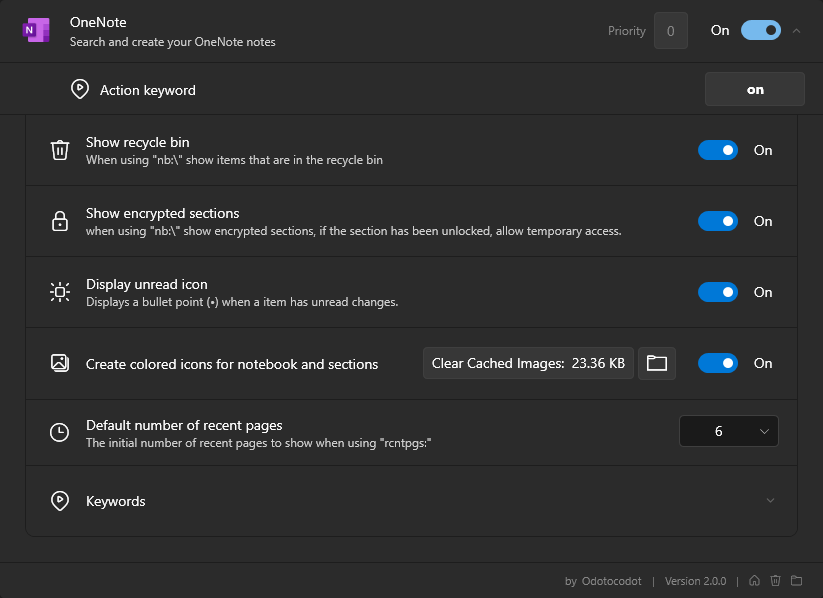
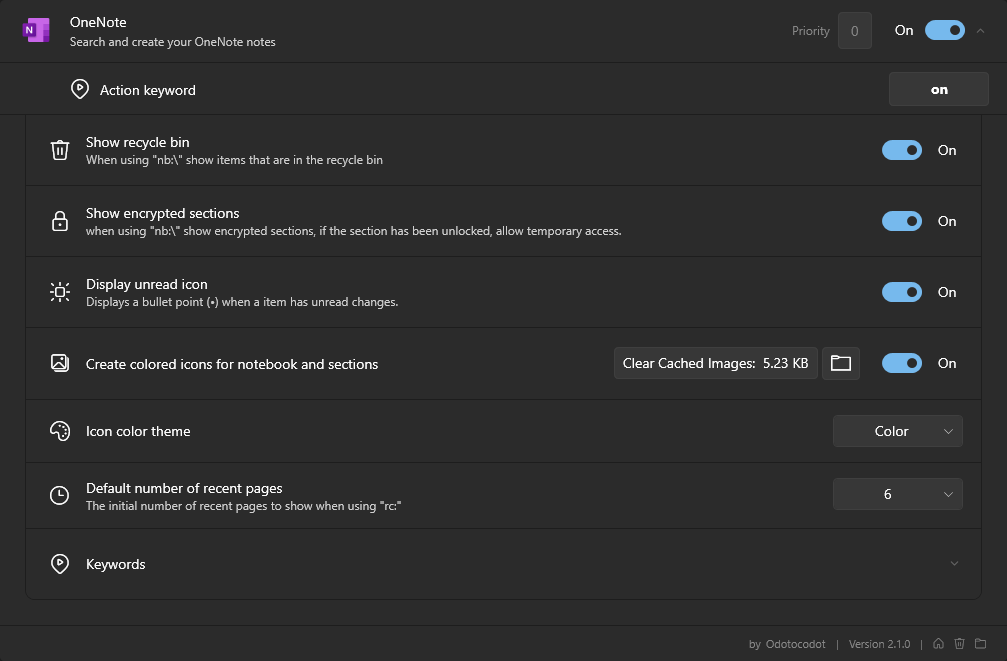
Add new gifs

diff --git a/Readme.md b/Readme.md
@@ -16,6 +16,7 @@ A [OneNote](https://www.microsoft.com/en-gb/microsoft-365/onenote/digital-note-t
 - [Installation](#installation)
 - [Features](#features)
   - [At a Glance](#at-a-glance)
+  - [New with Version 2.1.0](#new-with-version-210)
   - [Default Search](#default-search)
   - [Notebook Explorer](#notebook-explorer)
     - [Create New Items](#create-new-items)
@@ -59,13 +60,18 @@ pm install OneNote
 > [!NOTE]
 > Hierarchy items are notebooks, section groups, sections and pages.
 
+### New with Version 2.1.0
+
+- :star: [New page preview panel](#create-pages) :star: for quickly creating pages with text!
+- Added icons for different themes. The themes available are color, light, dark and one that matches Flow Launcher's current theme. Change it in the settings!
+
 ### Default Search
 
 ```
 on {your search query}
 ```
 
-This is allows you to search OneNote pages using the OneNote API which searches both the content in a page as well as the page title.
+This allows you to search OneNote pages using the OneNote API which searches both the content in a page and the page title.
 
 - Press <kbd>⏎ Enter</kbd> or left-click on a search result to open in OneNote.
 
@@ -93,12 +99,27 @@ Traverse your OneNote notebooks explorer style.
 #### Create New Items
 
 Whilst using the notebook explorer, if your search query does not match any names of the items in the results, the plugin will give you an option to create a new item.
+TODO CTRL MODIFIIER KEY
 
 ![create new item gif](doc/create_new_items.gif)
 
 > [!NOTE]
 > Supports all OneNote hierarchy items i.e. notebooks, section groups, sections and pages.
->
+
+##### Create Pages
+
+Allows for quick page creation with content! No longer do you need to open OneNote to add text to a page.
+TODO Finish this section
+HotKeys
+  CTRL+S
+  TAB or Control TAB
+  Shift TAB or COntrol SHift TAB
+  Ctrl+O
+
+![create new quick note gif](doc/create_quick_note.gif)
+
+![create pages gif](doc/create_page.gif)
+
 ### Recent Pages
 
 ```
@@ -125,7 +146,7 @@ Scoped search is the same as [default search](#default-search) but restricted to
 ![scoped search gif](doc/scoped_search.gif)
 
 <details>
-  <summary><h4>Example Queries<h4></summary>
+  <summary><h4>Example Queries</h4></summary>
   
   ```
   on nb:\A Notebook\A Section Group\>hello there
@@ -150,7 +171,7 @@ Searches for hierarchy items based on their title alone. Unlike [scoped search](
 ![title search gif](doc/title_search_notebook.gif)
 
 <details>
-  <summary><h4>Example Queries<h4></summary>
+  <summary><h4>Example Queries</h4></summary>
   
   ```
   on nb:\A Notebook\A Section Group\*hello there
@@ -166,7 +187,7 @@ The plugin has a number of settings such as the ability to hide the recycle bin 
 
 <details>
   <summary>Screenshot of settings</summary>
-  <img src= "doc/settings.png" width="823" height="598" alt="settings">
+  <img src= "doc/settings.png" width="100%" alt="settings">
 </details>
 
 ### Keywords
@@ -175,7 +196,7 @@ All the keywords used can be changed according to user preference.
 
 <details>
   <summary>Screenshot of keywords</summary>
-  <img src= "doc/keywords.png" width="823" height="276" alt="keywords">
+  <img src= "doc/keywords.png" width="100%" alt="keywords">
 </details>
 
 ## Changelog
@@ -186,4 +207,3 @@ See [here](Changelog.md) for the full list of changes.
 
 - Made with [Linq2OneNote](https://github.com/Odotocodot/Linq2OneNote) a library for exposing the OneNote API also made by me :smiley:
 - Inspired by the OneNote plugin for [PowerToys](https://github.com/microsoft/PowerToys/tree/main/src/modules/launcher/Plugins/Microsoft.PowerToys.Run.Plugin.OneNote)
-- Icons from [Icons8](https://icons8.com)

diff --git a/Changelog.md b/Changelog.md
@@ -1,32 +1,39 @@
 # Changelog
 
-### 2.1.0 - 2024-6-14
+## 2.1.0 - 2024-6-14
 
-#### Added
+### Added
 
 - New and improved icons.
 - New preview panel for creating pages ([#20](https://github.com/Odotocodot/Flow.Launcher.Plugin.OneNote/issues/20))
 - New setting for icon theme: FL Default (matches Flow Launcher's theme), light, dark and color.
+- Opening an hierarchy item from the plugin now always brings OneNote to the front.
+- New Hotkey (<kbd>CTRL+Enter<kbd>) to create new items without opening them in OneNote.
 
-#### Changed
+### Changed
 
 - Refactored icon generation.
 - Refactored settings view.
 - Changed Linq2OneNote library reference from submodule to NuGet package.
+- Updated tooltips for notebooks, section groups, sections and pages.
 
-### 2.0.1 - 2023-10-0
+### Fixes
 
-#### Added
+- Fixed incorrect autocomplete text for creating new items.
 
-- OneNote is now opened asynchronously to prevent blocking UI ([[#15](https://github.com/Odotocodot/Flow.Launcher.Plugin.OneNote/issues/15)])
+## 2.0.1 - 2023-10-09
 
-### 2.0.0 - 2023-10-05
+### Added
 
-#### **Breaking Changes**
- 
+- OneNote is now opened asynchronously to prevent blocking UI ([#15](https://github.com/Odotocodot/Flow.Launcher.Plugin.OneNote/issues/15))
+
+## 2.0.0 - 2023-10-05
+
+### **Breaking Changes**
+
 - Now requires Flow Launcher version 1.16 or later.
 
-#### Added
+### Added
 
 - **[Created custom OneNote parser/library](https://github.com/Odotocodot/Linq2OneNote)**, adding the ability for several new features.
 - Support for section groups when using the notebook explorer.
@@ -49,42 +56,42 @@
 - Updated to .NET 7 (update Flow Launcher if an error persists).
 - Refactored the majority of code and project structure.
 
-#### Removed
+### Removed
 
 - [Scipbe.Common.Office.OneNote](https://github.com/scipbe/ScipBe-Common-Office) package reference.
 
-### 1.1.1 - 2023-03-05
+## 1.1.1 - 2023-03-05
 
-#### Fixes
+### Fixes
 
 - Fixed crash on search ([#7](https://github.com/Odotocodot/Flow.Launcher.Plugin.OneNote/issues/7))
 
-### 1.1.0 - 2023-03-04
+## 1.1.0 - 2023-03-04
 
-#### Added
+### Added
 
 - Added the ability to create notebooks, sections and pages.
 
-#### Changes
+### Changes
 
 - Improved the readme
 
-#### Fixes
+### Fixes
 
 - Fixed typos
 
-### 1.0.2 - 2023-02-28
+## 1.0.2 - 2023-02-28
 
-#### Fixes
+### Fixes
 
 - Fixed crash due to encrypted sections ([#3](https://github.com/Odotocodot/Flow.Launcher.Plugin.OneNote/issues/3), [#4](https://github.com/Odotocodot/Flow.Launcher.Plugin.OneNote/issues/4))
 
-### 1.0.1 - 2023-01-15
+## 1.0.1 - 2023-01-15
 
-#### Fixes
+### Fixes
 
 - Fixed crash on invalid search ([#1](https://github.com/Odotocodot/Flow.Launcher.Plugin.OneNote/issues/1))
 
-### 1.0.0 - 2022-12-16
+## 1.0.0 - 2022-12-16
 
 Initial Release
